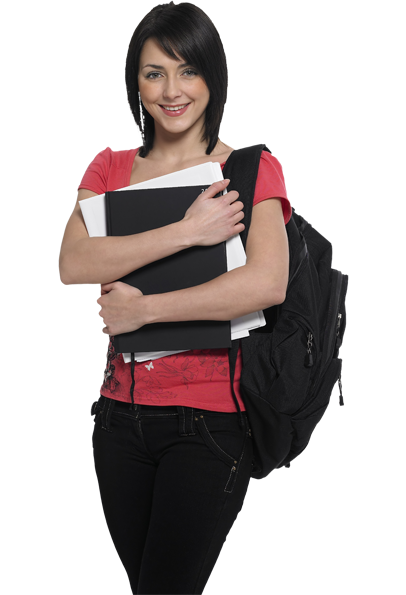
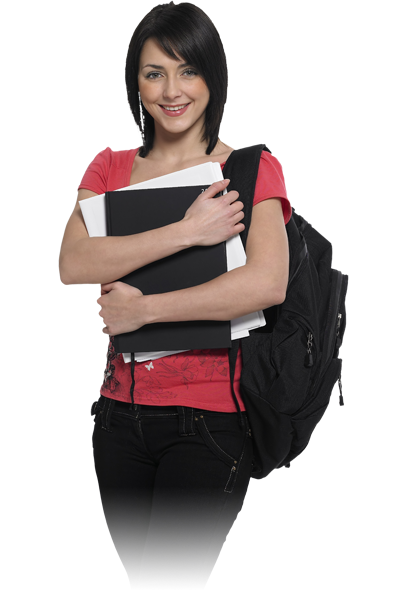
completed main slider image additions

Changed region(s): [[0.2365, 0.8168, 0.5911, 1.0]]

diff --git a/index.html b/index.html
@@ -81,6 +81,14 @@
                     <div class="container">
                         <div class="row slide-margin">
                             <div class="col-sm-6">
+
+                                <div class="slider-img-small">
+                                    <ul>
+                                        <li><img src="images/slider/img1a.jpg" class="img-responsive wow fadeInDown"></li>
+                                        <li><img src="images/slider/img1b.jpg" class="img-responsive wow fadeInDown"></li>
+                                        <li><img src="images/slider/img1c.jpg" class="img-responsive wow fadeInDown"></li>
+                                    </ul>
+                                </div>
                                 <div class="carousel-content">
                                     <h1 class="animation animated-item-1">Borde's Career Academy</h1>
                                     <h2 class="animation animated-item-2">We are proud to say that Borde's has become a synonym of success for preparation of IBPS Bank PO, Clerk, SSC, &amp; NDA exams. With a strong &amp; experienced pool of faculties, the institute is committed itself to provide quality education &amp; guideline for students.</h2>

diff --git a/css/main.css b/css/main.css
@@ -409,6 +409,29 @@ input.search-form:hover {
   bottom: 100px;
 }
 
+#main-slider .carousel .slider-img-small {
+  /*position: absolute;*/
+  margin-top: -50px;
+}
+
+#main-slider .carousel .slider-img-small ul {
+  height: 100px;
+  margin-bottom: 30px;
+  margin-left: -40px;
+}
+
+#main-slider .carousel .slider-img-small ul li {
+  float: left;
+  list-style: none;
+  width: 20%;
+  height: 100%;
+  margin-right: 20px;
+}
+
+#main-slider .carousel .slider-img-small li img {
+  border-radius: 200px;
+}
+
 
 #main-slider .carousel .item {
   background-position: 50%;
@@ -582,8 +605,8 @@ input.search-form:hover {
   background: #ffffff;
   color: #0069b6;
   border: 3px solid #ffffff;
-  box-shadow: inset 0 0 0 5px #f2f2f2;
-  -webkit-box-shadow: inset 0 0 0 5px #f2f2f2;
+  box-shadow: inset 0 0 0 5px #0069b6;
+  -webkit-box-shadow: inset 0 0 0 5px #0069b6;
   -webkit-transition: 500ms;
   -moz-transition: 500ms;
   -o-transition: 500ms;
